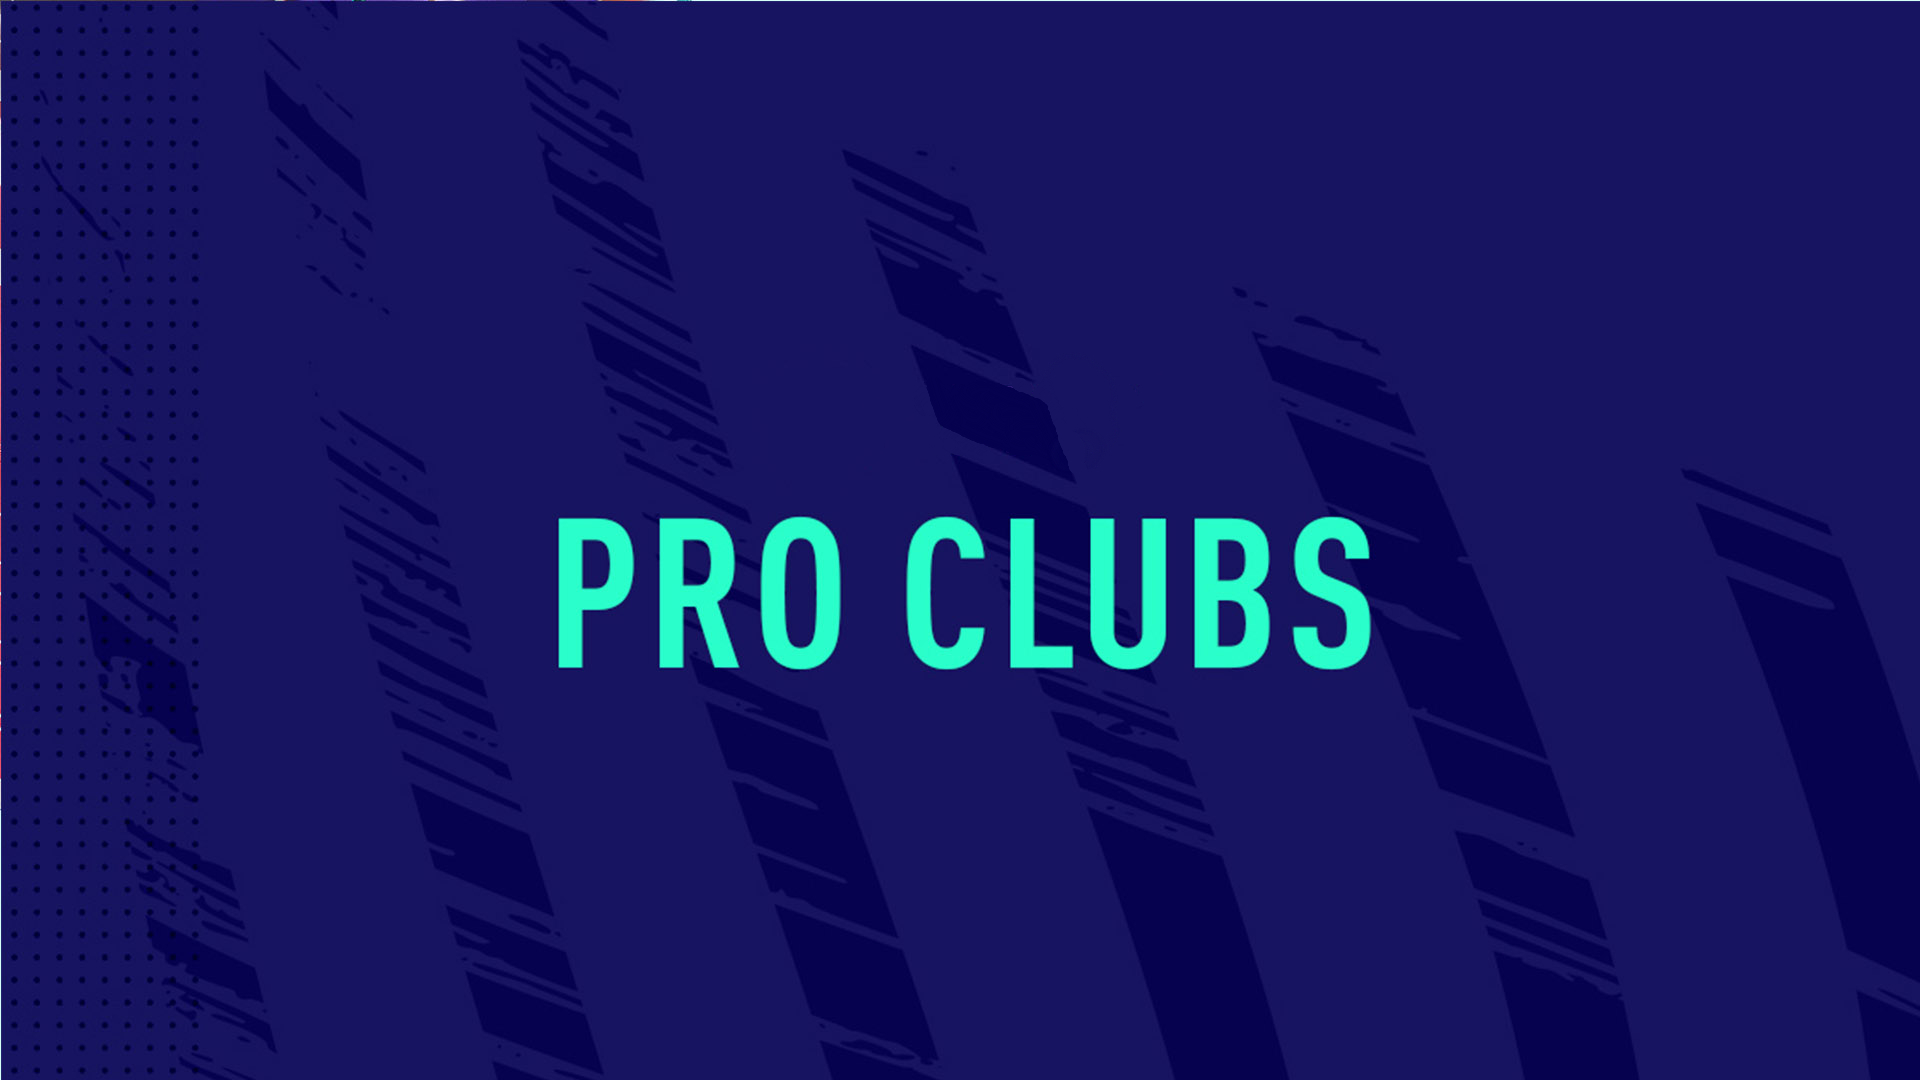
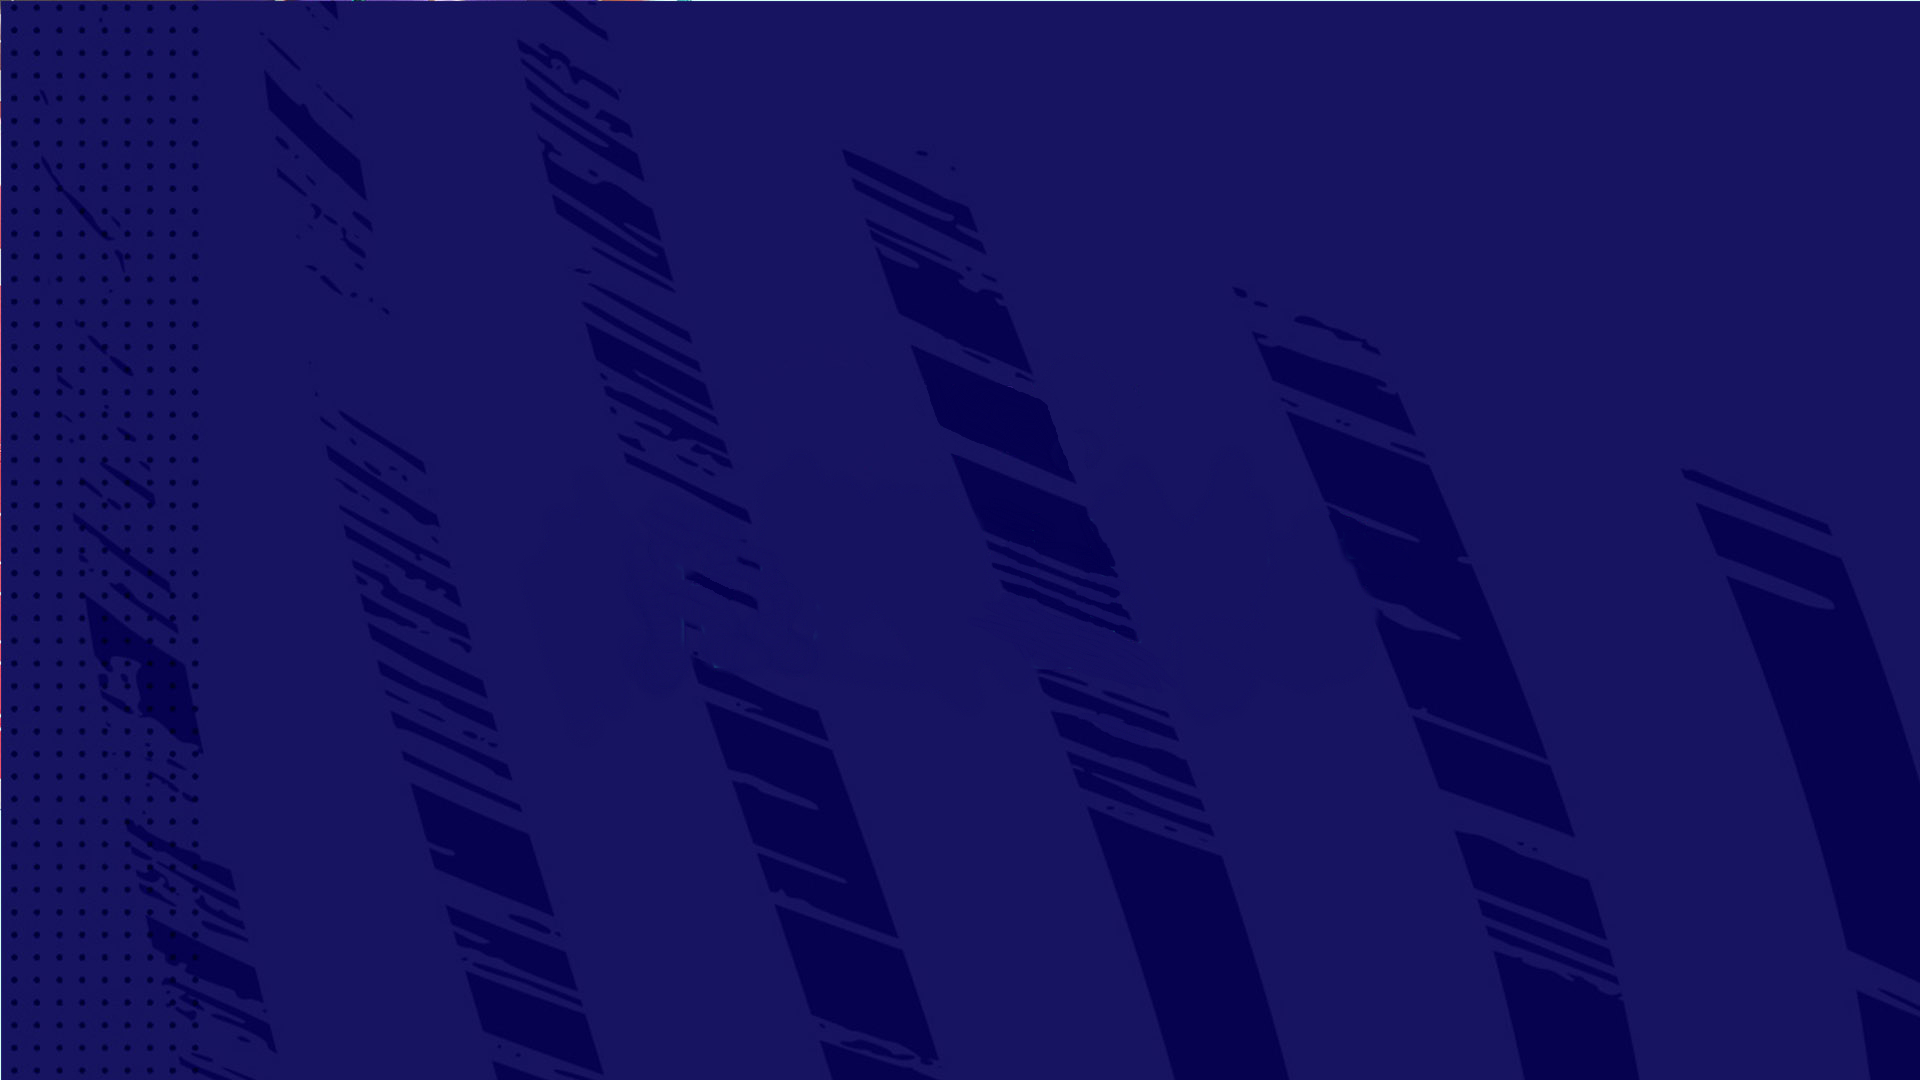
achtergrond aangepast

Changed region(s): [[0.4688, 0.4583, 0.7188, 0.6417], [0.2812, 0.4583, 0.4375, 0.6417]]

diff --git a/app/public/css/style.css b/app/public/css/style.css
@@ -233,6 +233,12 @@ body {
     
 }
 
+.display-3-projecten--title{
+    color: white;
+    text-align: center;
+    padding-top: 20px;
+    padding-bottom: 30px;
+}
 
 /*landing page*/
 
